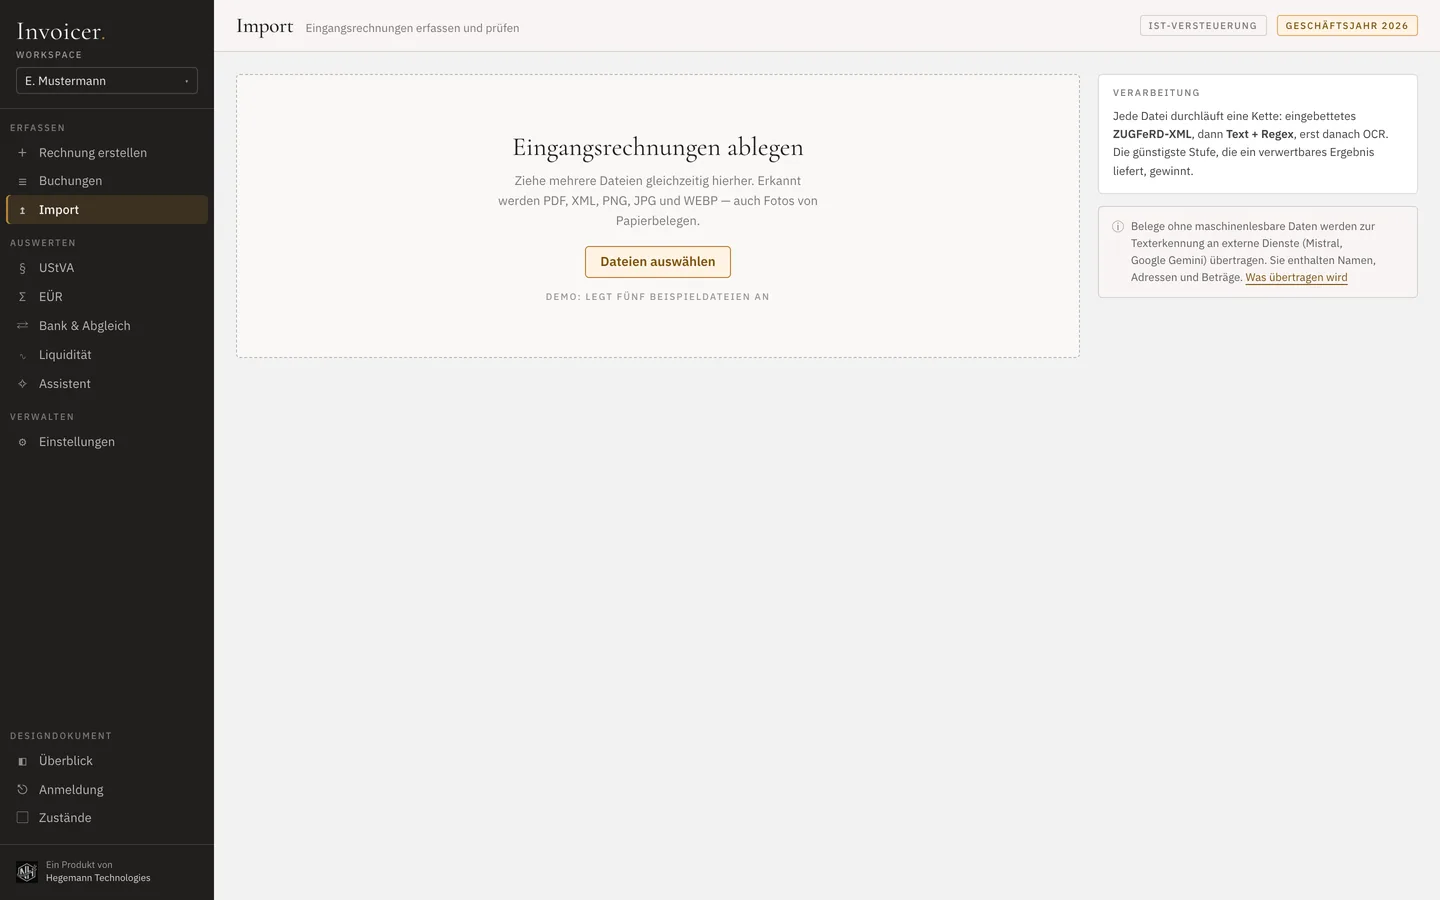
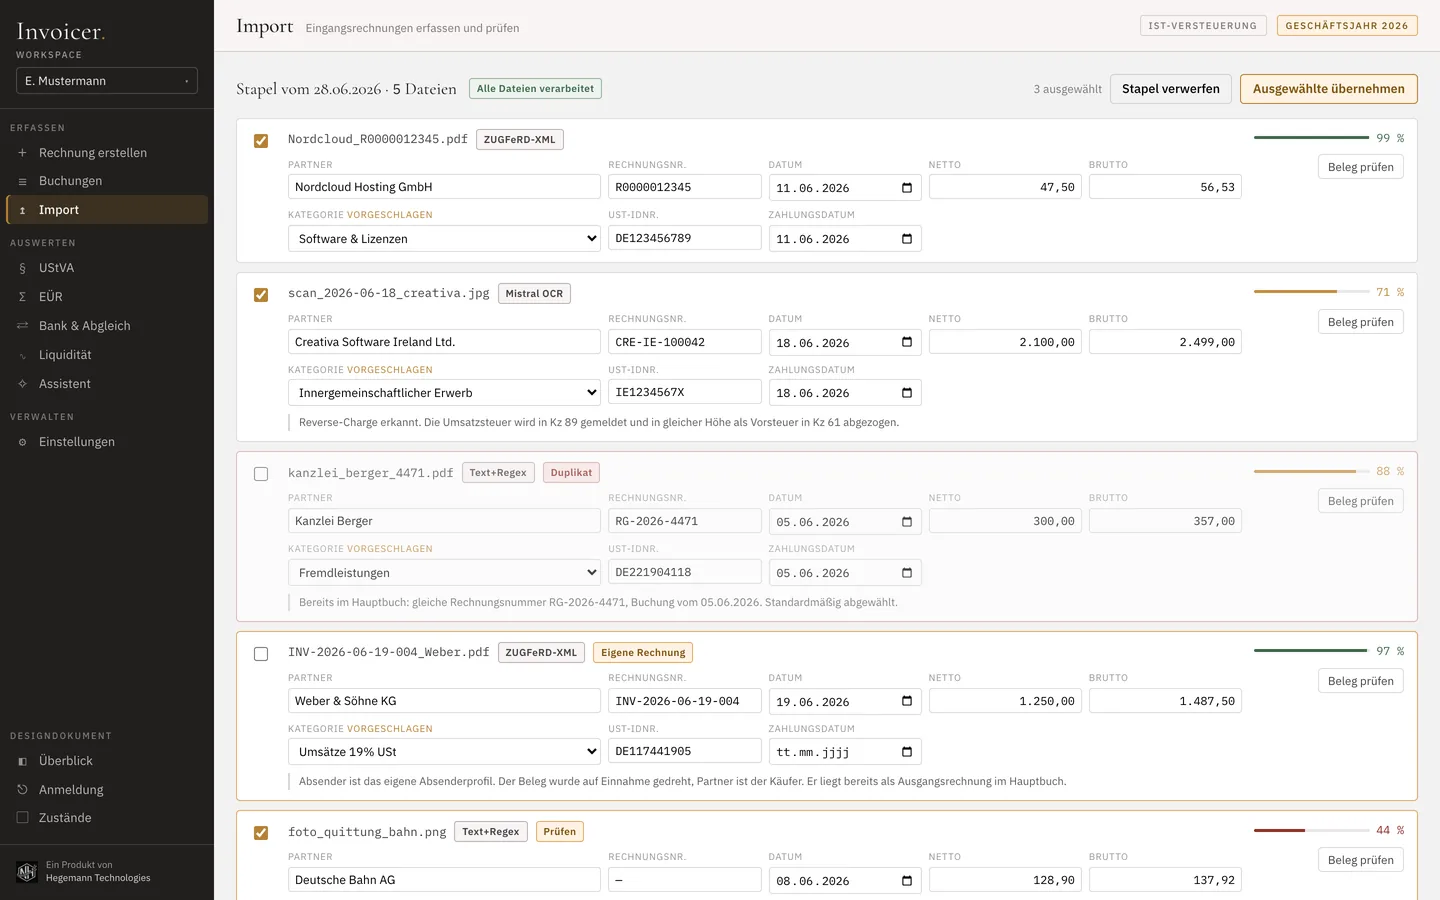
fix: show the Import screen populated, not empty
The Import screenshot was captured in the screen's empty state — a drop zone —
while the caption promised per-field confidence and duplicate detection. Re-captured
after seeding the demo batch, so it now shows all five receipts with their confidence
bars, the extraction tier that produced each one (ZUGFeRD-XML / Text+Regex / OCR),
and the flagged duplicate and own-invoice rows. Caption tightened in both languages
to describe exactly what is visible.

diff --git a/invoicer.html b/invoicer.html
@@ -413,8 +413,10 @@
                 <figure>
                     <img src="screens/import.webp" width="1440" height="900" loading="lazy"
                         alt="Import: Belegerkennung mit Fortschrittsanzeige, Konfidenzwerten und Duplikatswarnungen.">
-                    <figcaption data-i18n="iv_cap_import">Import — Belegerkennung mit Konfidenz je Feld,
-                        Duplikatserkennung und einem Vergleich von Original, OCR-Text und übernommenen Feldern.
+                    <figcaption data-i18n="iv_cap_import">Import — fünf Beispielbelege nach der Erkennung:
+                        Konfidenz je Beleg, die verwendete Erkennungsstufe, sowie markierte Duplikate und eigene
+                        Rechnungen. Über „Beleg prüfen“ öffnet sich der Vergleich von Original, OCR-Text und
+                        übernommenen Feldern.
                     </figcaption>
                 </figure>
             </section>
@@ -500,7 +502,7 @@
                 iv_cap_ustva: "UStVA — der Formularspiegel zeigt die amtlichen Zeilen und Kennzahlen des Vordrucks USt 1 A. Rechts die Prüfung und der XML-Export für ELSTER.",
                 iv_cap_bank: "Bank &amp; Abgleich — jeder Umsatz wird zu einer Entscheidung mit begründeten Vorschlägen. Die Zuordnung setzt das steuerlich relevante Zahlungsdatum.",
                 iv_cap_rechnung: "Rechnung erstellen — Positionen links, die PDF-Vorschau rechts baut sich bei jeder Änderung neu auf.",
-                iv_cap_import: "Import — Belegerkennung mit Konfidenz je Feld, Duplikatserkennung und einem Vergleich von Original, OCR-Text und übernommenen Feldern.",
+                iv_cap_import: "Import — fünf Beispielbelege nach der Erkennung: Konfidenz je Beleg, die verwendete Erkennungsstufe, sowie markierte Duplikate und eigene Rechnungen. Über &bdquo;Beleg prüfen&ldquo; öffnet sich der Vergleich von Original, OCR-Text und übernommenen Feldern.",
 
                 iv_s3_title: "04. Bevor Sie klicken",
                 iv_d1: "<strong>Prototyp, kein Produkt.</strong> Er zeigt, wie die Anwendung sich anfühlen soll. Es gibt kein Backend, keine Anmeldung und keine Datenspeicherung.",
@@ -546,7 +548,7 @@
                 iv_cap_ustva: "VAT return — the form mirror reproduces the official rows and code numbers of the USt 1 A form. Validation and the ELSTER XML export sit on the right.",
                 iv_cap_bank: "Bank &amp; reconciliation — every transaction becomes a decision with reasoned suggestions. The match is what sets the tax-relevant payment date.",
                 iv_cap_rechnung: "Create invoice — line items on the left; the PDF preview on the right rebuilds on every change.",
-                iv_cap_import: "Import — receipt extraction with per-field confidence, duplicate detection, and a comparison of original, OCR text and the fields taken from it.",
+                iv_cap_import: "Import — five sample receipts after extraction: confidence per receipt, which extraction tier was used, plus flagged duplicates and own invoices. &bdquo;Beleg prüfen&ldquo; opens a comparison of the original, the OCR text and the fields taken from it.",
 
                 iv_s3_title: "04. Before you click",
                 iv_d1: "<strong>A prototype, not a product.</strong> It shows how the application should feel. There is no backend, no sign-up and no data storage.",
